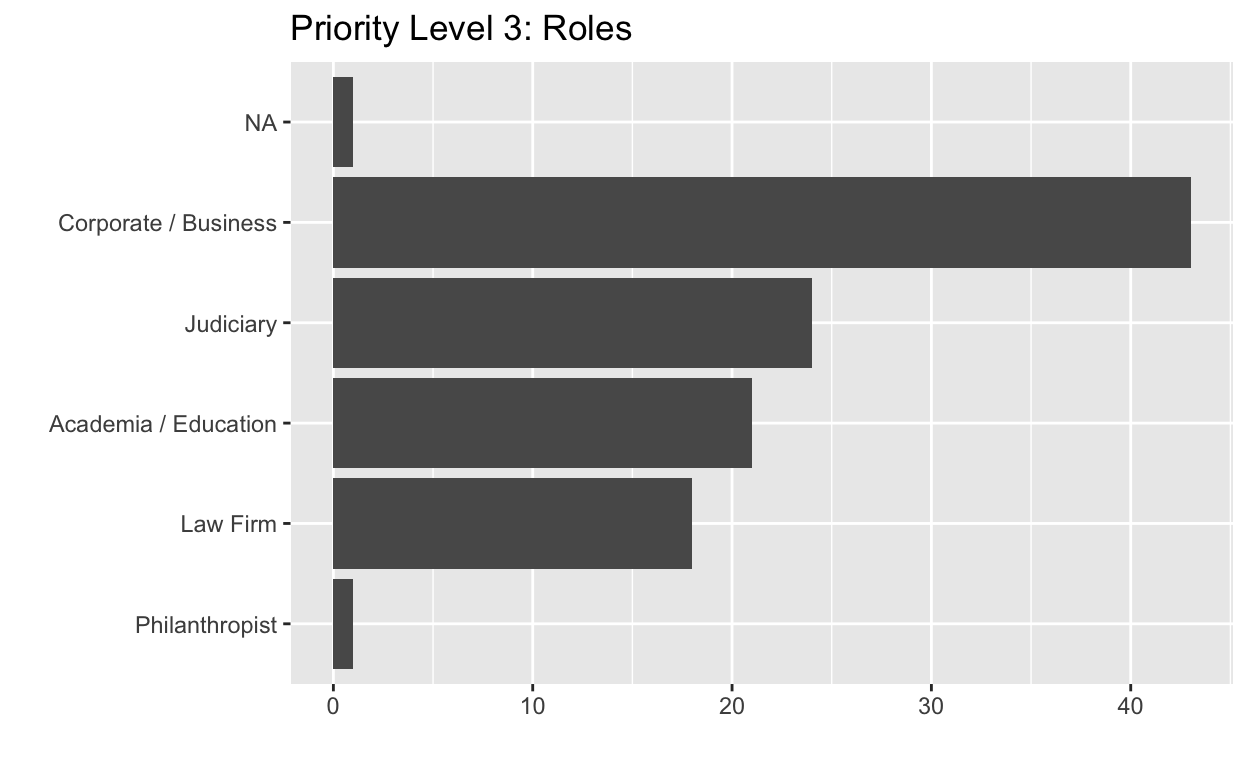
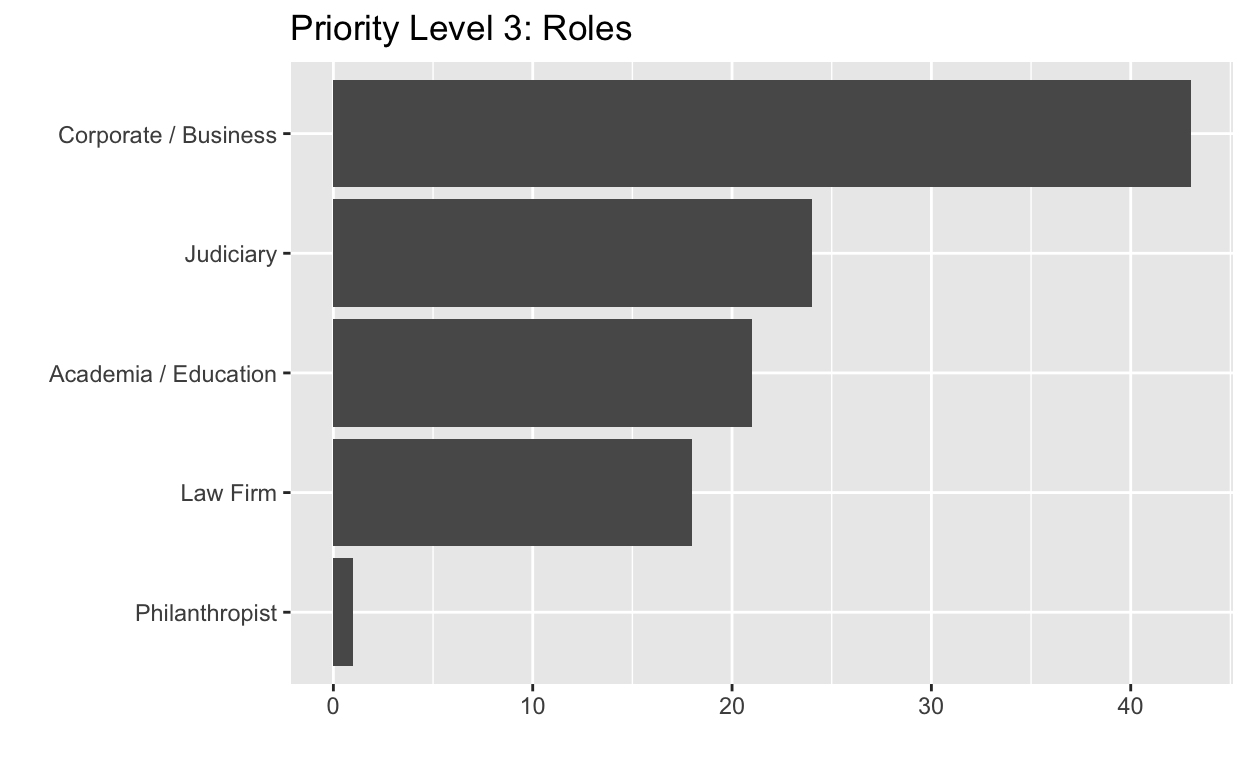
remove na from category graph

diff --git a/docs/index.html b/docs/index.html
@@ -2104,8 +2104,8 @@ Reports
 <h1 id="priority-levels">Priority Levels</h1>
 <p>The priority levels divide the entries pretty evenly.</p>
 <div class="layout-chunk" data-layout="l-body">
-<div id="htmlwidget-e1601fa31bbe0370624f" style="width:100%;height:auto;" class="datatables html-widget"></div>
-<script type="application/json" data-for="htmlwidget-e1601fa31bbe0370624f">{"x":{"filter":"none","data":[[1,2,3],[118,122,104]],"container":"<table class=\"display\">\n  <thead>\n    <tr>\n      <th>Priority Level<\/th>\n      <th>Total<\/th>\n    <\/tr>\n  <\/thead>\n<\/table>","options":{"columnDefs":[{"className":"dt-right","targets":[0,1]}],"order":[],"autoWidth":false,"orderClasses":false}},"evals":[],"jsHooks":[]}</script>
+<div id="htmlwidget-ac3760198d661f6638e3" style="width:100%;height:auto;" class="datatables html-widget"></div>
+<script type="application/json" data-for="htmlwidget-ac3760198d661f6638e3">{"x":{"filter":"none","data":[[1,2,3],[118,122,104]],"container":"<table class=\"display\">\n  <thead>\n    <tr>\n      <th>Priority Level<\/th>\n      <th>Total<\/th>\n    <\/tr>\n  <\/thead>\n<\/table>","options":{"columnDefs":[{"className":"dt-right","targets":[0,1]}],"order":[],"autoWidth":false,"orderClasses":false}},"evals":[],"jsHooks":[]}</script>
 </div>
 <h1 id="gender-in-priority-levels">Gender in Priority Levels</h1>
 <p>As priority level decreases, the ratio of males to females increases. This is expected based on the analysis after Phase 2: in Public Interest, the main role in Priority 1, women far outnumbered men; men were better represented in Government and Corporate and formed a small majority in Judiciary and Law Firm.</p>
